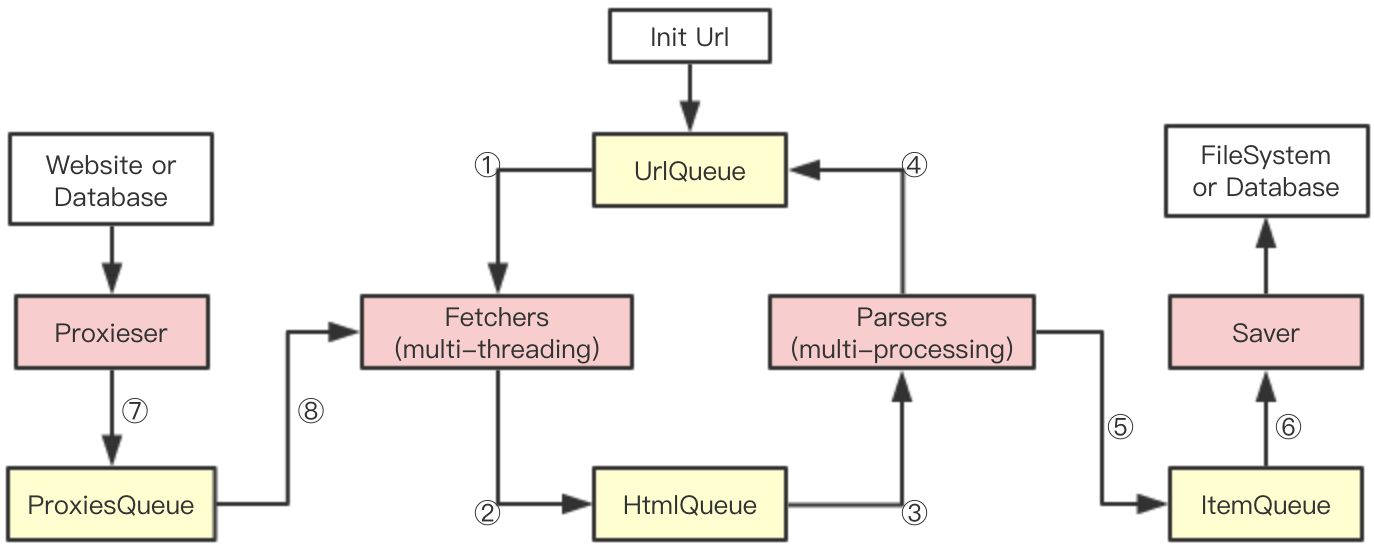
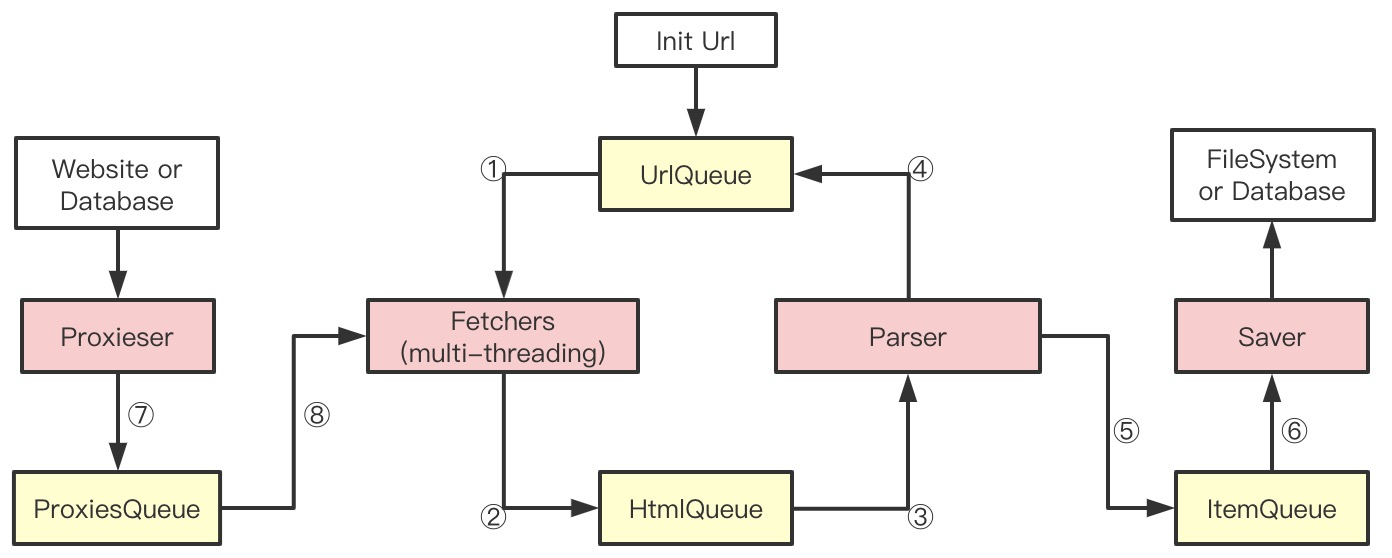
delete multiprocessing, format code, version 3.0.0

diff --git a/spider/concurrent/threads_inst/parse.py b/spider/concurrent/threads_inst/parse.py
@@ -5,7 +5,6 @@ parse.py by xianhu
 """
 
 import logging
-import multiprocessing
 from .base import TPEnum, BaseThread
 from ...utilities import CONFIG_ERROR_MESSAGE, check_url_legal, get_dict_buildin
 
@@ -15,49 +14,29 @@ class ParseThread(BaseThread):
     class of ParseThread, as the subclass of BaseThread
     """
 
-    def __init__(self, name, worker, pool):
-        """
-        constructor, add pool_mp to this thread
-        """
-        BaseThread.__init__(self, name, worker, pool)
-        self._pool_mp = multiprocessing.Pool()
-        return
-
-    def __del__(self):
-        """
-        destructor, terminate self._pool_mp
-        """
-        self._pool_mp.terminate()
-        return
-
     def working(self):
         """
         procedure of parsing, auto running and return True
         """
         # ----1----
-        task_list = [self._pool.get_a_task(TPEnum.HTM_PARSE) for _ in range(max(1, self._pool.get_number_dict(TPEnum.HTM_PARSE_NOT)))]
+        priority, url, keys, deep, content = self._pool.get_a_task(TPEnum.HTM_PARSE)
 
         # ----2----
-        result_list = [self._pool_mp.apply_async(self._worker.working, args=task) for task in task_list]
+        parse_state, url_list, item = self._worker.working(priority, url, keys, deep, content)
 
-        for index in range(len(task_list)):
-            # ----*----
-            priority, url, keys, deep, content = task_list[index]
-            parse_state, url_list, item = result_list[index].get(timeout=None)
+        # ----3----
+        if parse_state > 0:
+            self._pool.update_number_dict(TPEnum.HTM_PARSE_SUCC, +1)
+            for _url, _keys, _priority in filter(lambda x: check_url_legal(x[0]), url_list):
+                self._pool.add_a_task(TPEnum.URL_FETCH, (_priority, _url, _keys, deep + 1, 0))
+            if item is not None:
+                self._pool.add_a_task(TPEnum.ITEM_SAVE, (priority, url, keys, deep, item))
+        else:
+            self._pool.update_number_dict(TPEnum.HTM_PARSE_FAIL, +1)
+            logging.error("%s error: %s, %s", url_list[0], url_list[1], CONFIG_ERROR_MESSAGE % (priority, get_dict_buildin(keys), deep, url))
 
-            # ----3----
-            if parse_state > 0:
-                self._pool.update_number_dict(TPEnum.HTM_PARSE_SUCC, +1)
-                for _url, _keys, _priority in filter(lambda x: check_url_legal(x[0]), url_list):
-                    self._pool.add_a_task(TPEnum.URL_FETCH, (_priority, _url, _keys, deep+1, 0))
-                if item is not None:
-                    self._pool.add_a_task(TPEnum.ITEM_SAVE, (priority, url, keys, deep, item))
-            else:
-                self._pool.update_number_dict(TPEnum.HTM_PARSE_FAIL, +1)
-                logging.error("%s error: %s, %s", url_list[0], url_list[1], CONFIG_ERROR_MESSAGE % (priority, get_dict_buildin(keys), deep, url))
-
-            # ----4----
-            self._pool.finish_a_task(TPEnum.HTM_PARSE)
+        # ----4----
+        self._pool.finish_a_task(TPEnum.HTM_PARSE)
 
         # ----5----
         return True

diff --git a/spider/concurrent/threads_inst/base.py b/spider/concurrent/threads_inst/base.py
@@ -15,27 +15,27 @@ class TPEnum(enum.Enum):
     """
     enum of TPEnum, to mark the status of the threads_pool
     """
-    URL_FETCH = "url_fetch"                 # flag of url_fetch **
-    URL_FETCH_RUN = "url_fetch_run"         # flag of url_fetch_run
-    URL_FETCH_NOT = "url_fetch_not"         # flag of url_fetch_not
-    URL_FETCH_SUCC = "url_fetch_succ"       # flag of url_fetch_succ
-    URL_FETCH_FAIL = "url_fetch_fail"       # flag of url_fetch_fail
+    URL_FETCH = "url_fetch"             # flag of url_fetch **
+    URL_FETCH_RUN = "url_fetch_run"     # flag of url_fetch_run
+    URL_FETCH_NOT = "url_fetch_not"     # flag of url_fetch_not
+    URL_FETCH_SUCC = "url_fetch_succ"   # flag of url_fetch_succ
+    URL_FETCH_FAIL = "url_fetch_fail"   # flag of url_fetch_fail
 
-    HTM_PARSE = "htm_parse"                 # flag of htm_parse **
-    HTM_PARSE_RUN = "htm_parse_run"         # flag of htm_parse_run
-    HTM_PARSE_NOT = "htm_parse_not"         # flag of htm_parse_not
-    HTM_PARSE_SUCC = "htm_parse_succ"       # flag of htm_parse_succ
-    HTM_PARSE_FAIL = "htm_parse_fail"       # flag of htm_parse_fail
+    HTM_PARSE = "htm_parse"             # flag of htm_parse **
+    HTM_PARSE_RUN = "htm_parse_run"     # flag of htm_parse_run
+    HTM_PARSE_NOT = "htm_parse_not"     # flag of htm_parse_not
+    HTM_PARSE_SUCC = "htm_parse_succ"   # flag of htm_parse_succ
+    HTM_PARSE_FAIL = "htm_parse_fail"   # flag of htm_parse_fail
 
-    ITEM_SAVE = "item_save"                 # flag of item_save **
-    ITEM_SAVE_RUN = "item_save_run"         # flag of item_save_run
-    ITEM_SAVE_NOT = "item_save_not"         # flag of item_save_not
-    ITEM_SAVE_SUCC = "item_save_succ"       # flag of item_save_succ
-    ITEM_SAVE_FAIL = "item_save_fail"       # flag of item_save_fail
+    ITEM_SAVE = "item_save"             # flag of item_save **
+    ITEM_SAVE_RUN = "item_save_run"     # flag of item_save_run
+    ITEM_SAVE_NOT = "item_save_not"     # flag of item_save_not
+    ITEM_SAVE_SUCC = "item_save_succ"   # flag of item_save_succ
+    ITEM_SAVE_FAIL = "item_save_fail"   # flag of item_save_fail
 
-    PROXIES = "proxies"                     # flag of proxies **
-    PROXIES_LEFT = "proxies_left"           # flag of proxies_left
-    PROXIES_FAIL = "proxies_fail"           # flag of proxies_fail
+    PROXIES = "proxies"                 # flag of proxies **
+    PROXIES_LEFT = "proxies_left"       # flag of proxies_left
+    PROXIES_FAIL = "proxies_fail"       # flag of proxies_fail
 
 
 class BaseThread(threading.Thread):
@@ -128,4 +128,4 @@ def work_monitor(self):
     return not self._pool.is_ready_to_finish()
 
 
-MonitorThread = type("MonitorThread", (BaseThread, ), dict(__init__=init_monitor, working=work_monitor))
+MonitorThread = type("MonitorThread", (BaseThread,), dict(__init__=init_monitor, working=work_monitor))

diff --git a/test.py b/test.py
@@ -10,7 +10,7 @@ import spider
 import logging
 import datetime
 import requests
-from bs4 import BeautifulSoup
+
 requests.packages.urllib3.disable_warnings()
 
 
@@ -49,13 +49,11 @@ class MyParser(spider.Parser):
         url_list = []
         if (self._max_deep < 0) or (deep < self._max_deep):
             re_group = re.findall(r"<a.+?href=\"(?P<url>.{5,}?)\".*?>", html_text, flags=re.IGNORECASE)
-            url_list = [(spider.get_url_legal(_url, base_url=url), keys, priority+1) for _url in re_group]
+            url_list = [(spider.get_url_legal(_url, base_url=url), keys, priority + 1) for _url in re_group]
 
         title = re.search(r"<title>(?P<title>.+?)</title>", html_text, flags=re.IGNORECASE)
         item = {"url": url, "title": title.group("title").strip(), "datetime": datetime.datetime.now()} if title else {}
 
-        # test multi-processing(heavy time)
-        [BeautifulSoup(html_text, "lxml") for _ in range(10)]
         return 1, url_list, item
 
 
@@ -106,7 +104,7 @@ def test_spider():
     # proxieser = MyProxies(sleep_time=5)
 
     # 定义url_filter
-    url_filter = spider.UrlFilter(white_patterns=(re.compile(r"^http[s]?://www\.appinn\.com"), ))
+    url_filter = spider.UrlFilter(white_patterns=(re.compile(r"^http[s]?://www\.appinn\.com"),))
 
     # 定义爬虫web_spider
     web_spider = spider.WebSpider(fetcher, parser, saver, proxieser=None, url_filter=url_filter, queue_parse_size=-1, queue_save_size=-1)

diff --git a/spider/utilities/util_config.py b/spider/utilities/util_config.py
@@ -11,7 +11,6 @@ __all__ = [
     "CONFIG_ERROR_MESSAGE_RE",
     "CONFIG_URL_LEGAL_RE",
     "CONFIG_URL_ILLEGAL_RE",
-    "CONFIG_HEADERS_SET",
 ]
 
 # define the structure of error message for threads_inst/
@@ -24,6 +23,3 @@ CONFIG_URL_ILLEGAL_RE = re.compile(r"\.(cab|iso|zip|rar|tar|gz|bz2|7z|tgz|apk|ex
                                    "pdf|doc|docx|xls|xlsx|ppt|pptx|txt|md|odf|odt|rtf|py|java|c|cc|js|css|log|csv|tsv|"
                                    "jpg|jpeg|png|gif|bmp|xpm|xbm|ico|drm|dxf|eps|psd|pcd|pcx|tif|tiff|"
                                    "mp3|mp4|swf|mkv|avi|flv|mov|wmv|wma|3gp|mpg|mpeg|mp4a|wav|ogg|rmvb)$", flags=re.IGNORECASE)
-
-# define key set of headers
-CONFIG_HEADERS_SET = {item.lower() for item in {"Host", "Referer", "User-Agent", "Content-Type", "Accept", "Accept-Encoding", "Accept-Charset", "Accept-Language"}}

diff --git a/spider/concurrent/threads_inst/fetch.py b/spider/concurrent/threads_inst/fetch.py
@@ -41,7 +41,7 @@ class FetchThread(BaseThread):
             self._pool.update_number_dict(TPEnum.URL_FETCH_SUCC, +1)
             self._pool.add_a_task(TPEnum.HTM_PARSE, (priority, url, keys, deep, content))
         elif fetch_state == 0:
-            self._pool.add_a_task(TPEnum.URL_FETCH, (priority, url, keys, deep, repeat+1))
+            self._pool.add_a_task(TPEnum.URL_FETCH, (priority, url, keys, deep, repeat + 1))
             logging.warning("%s repeat: %s, %s", content[0], content[1], CONFIG_ERROR_MESSAGE % (priority, get_dict_buildin(keys), deep, url))
         else:
             self._pool.update_number_dict(TPEnum.URL_FETCH_FAIL, +1)

diff --git a/spider/concurrent/threads_pool.py b/spider/concurrent/threads_pool.py
@@ -93,7 +93,7 @@ class ThreadPool(object):
 
     def wait_for_finished(self):
         """
-        wait for the finished of this thread pool
+        wait for finishing this thread pool
         """
         logging.warning("ThreadPool waits for finishing")
         self._thread_stop_flag = True
@@ -103,7 +103,6 @@ class ThreadPool(object):
 
         if self._thread_parser and self._thread_parser.is_alive():
             self._thread_parser.join()
-            del self._thread_parser
 
         if self._thread_saver and self._thread_saver.is_alive():
             self._thread_saver.join()

diff --git a/setup.py b/setup.py
@@ -8,7 +8,7 @@ from setuptools import setup, find_packages
 
 setup(
     name="spider",
-    version="2.6.1",
+    version="3.0.0",
     author="xianhu",
     keywords=["spider", "crawler"],
     packages=find_packages(exclude=("test.*",)),

diff --git a/spider/__init__.py b/spider/__init__.py
@@ -4,7 +4,7 @@
 define WebSpider, and also define utilities and instances for web_spider
 """
 
-__version__ = "2.6.1"
+__version__ = "3.0.0"
 
 from .utilities import *
 from .concurrent import TPEnum, WebSpider

diff --git a/README.md b/README.md
@@ -4,10 +4,9 @@ A simple web spider frame written by Python, which needs Python3.5+
 
 ### Features of PSpider
 1. Support multi-threading crawling mode (using threading and requests)
-2. Support multi-processing in parse process, automatically (using multiprocessing)
-3. Support using proxies for crawling (using threading and queue)
-4. Define some utility functions and classes, for example: UrlFilter, get_string_num, etc
-5. Fewer lines of code, easyer to read, understand and expand
+2. Support using proxies for crawling (using threading and queue)
+3. Define some utility functions and classes, for example: UrlFilter, get_string_num, etc
+4. Fewer lines of code, easyer to read, understand and expand
 
 ### Modules of PSpider
 1. utilities module: define some utilities functions and classes for multi-threading spider
@@ -17,10 +16,10 @@ A simple web spider frame written by Python, which needs Python3.5+
 ### Procedure of PSpider
 ![](procedure.png)
 ①: Fetchers get url from UrlQueue, and make requests based on this url  
-②: Put the result of ① to HtmlQueue, and so Parser can get it  
-③: Parser gets item from HtmlQueue, and parses it to get new urls and items  
-④: Put the new urls to UrlQueue, and so Fetcher can get it  
-⑤: Put the items to ItemQueue, and so Saver can get it  
+②: Put the result(content) of ① to HtmlQueue, and so Parser can get it  
+③: Parser gets content from HtmlQueue, and parses it to get new urls and item  
+④: Put the new urls to UrlQueue, and so Fetchers can get it  
+⑤: Put the item to ItemQueue, and so Saver can get it  
 ⑥: Saver gets item from ItemQueue, and saves it to filesystem or database  
 ⑦: Proxieser gets proxies from web or database, and puts proxies to ProxiesQueue  
 ⑧: Fetcher gets proxies from ProxiesQueue if needed, and makes requests based on this proxies  
